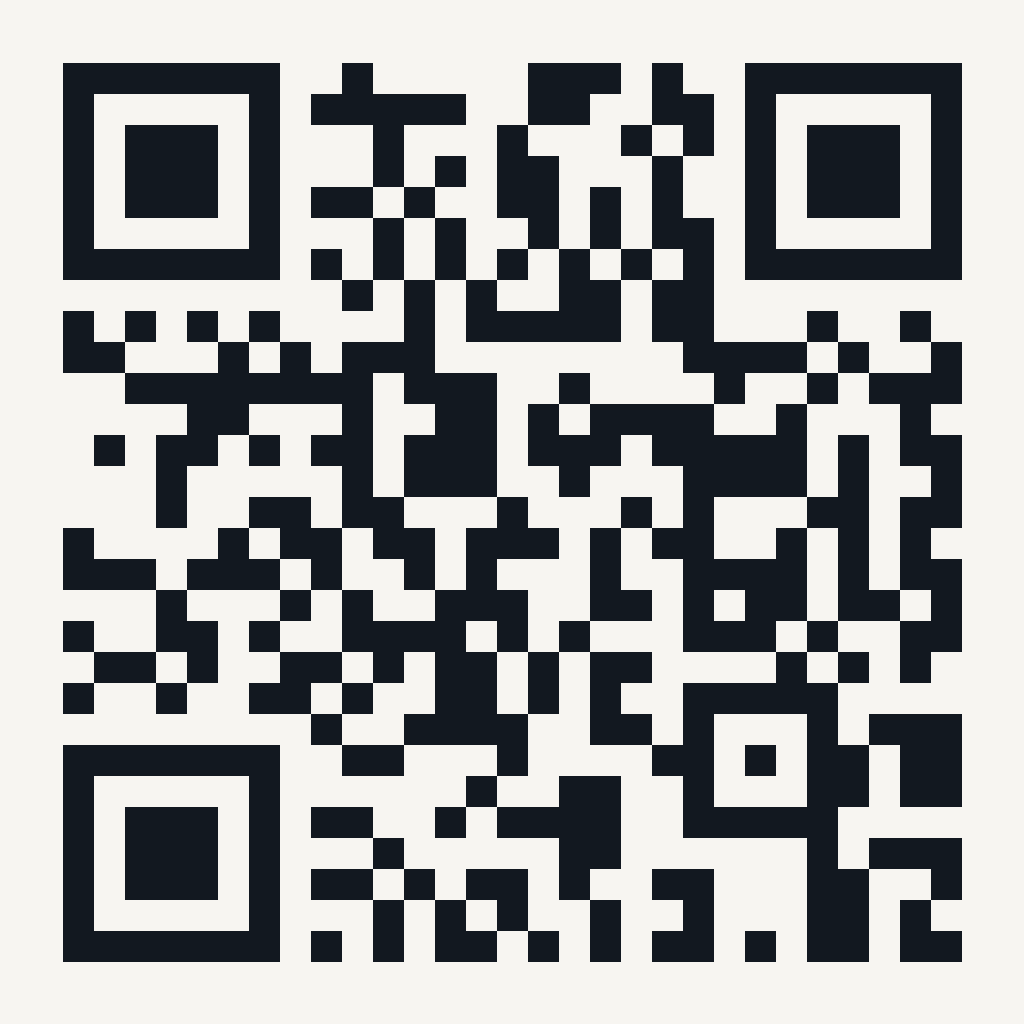
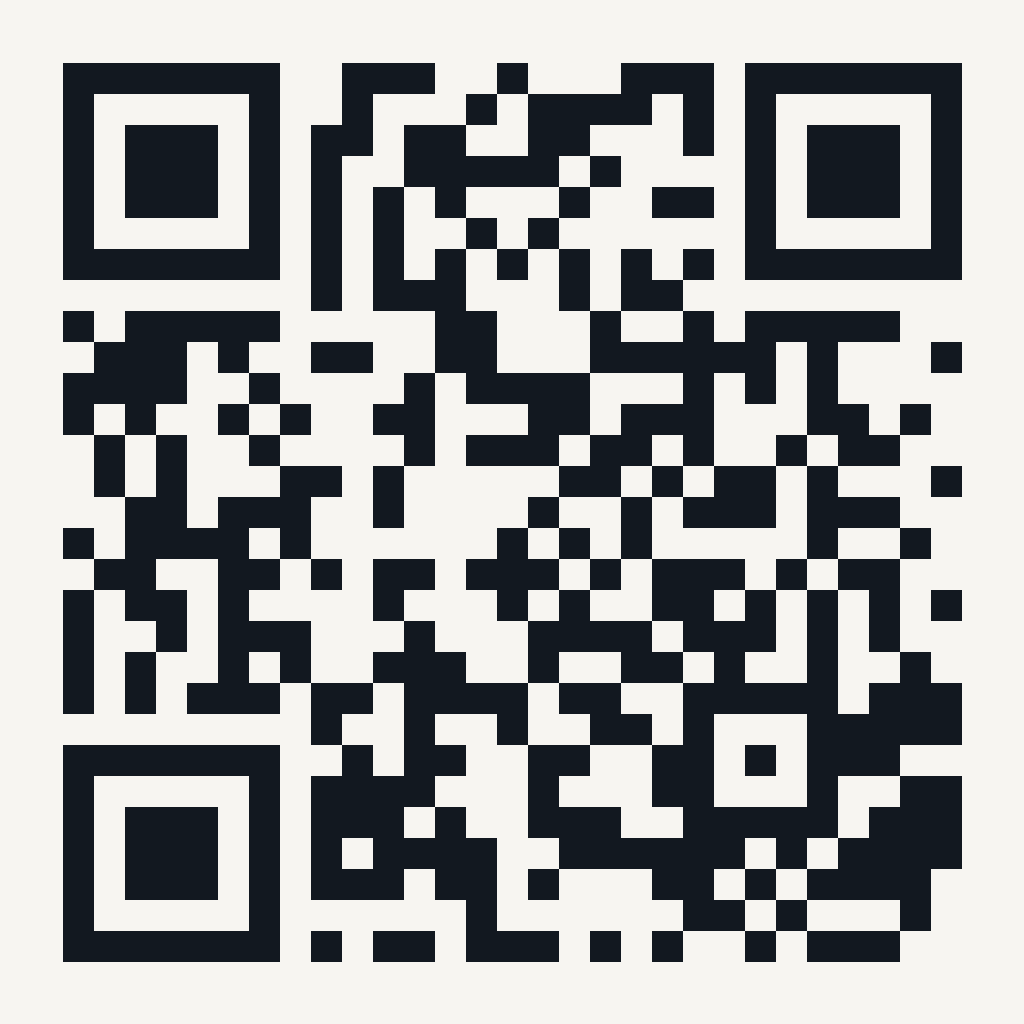
fix(demo): QR always encodes the visitor's own origin
Sandbox preview hosts rotate between sessions, so the baked-in preview URL
left a dead QR behind. /demo now re-encodes the QR with window.location.origin
at runtime (localhost/IP excluded) and the checked-in qr.png is refreshed for
the current preview host. Verified by decoding the rendered QR from a
headless-Chromium screenshot against a spoofed host.

Changed region(s): [[0.0625, 0.0625, 0.9375, 0.9375]]

diff --git a/components/demo-client.tsx b/components/demo-client.tsx
@@ -11,15 +11,14 @@ export function DemoClient({ demo }: { demo: DemoTarget }) {
   const [copied, setCopied] = useState(false);
   const [origin, setOrigin] = useState(demo.url);
 
-  // Prefer the URL the visitor is actually on (sandbox preview / custom domain).
+  // The QR must always encode the URL the visitor is actually looking at —
+  // sandbox previews rotate between sessions, so the baked-in value is only a
+  // fallback for non-browser contexts.
   useEffect(() => {
-    if (typeof window !== "undefined" && window.location.origin.includes(".")) {
-      const fromEnv = new URL(demo.url);
-      if (fromEnv.hostname.endsWith("vercel.app") && !window.location.hostname.endsWith("vercel.app")) {
-        setOrigin(window.location.origin);
-      }
-    }
-  }, [demo.url]);
+    const host = window.location.hostname;
+    const real = host.includes(".") && host !== "localhost" && !/^\d+\.\d+\.\d+\.\d+$/.test(host);
+    if (real) setOrigin(window.location.origin);
+  }, []);
 
   useEffect(() => {
     let cancelled = false;

diff --git a/lib/demo-config.ts b/lib/demo-config.ts
@@ -8,11 +8,15 @@
  * https://3000-<sandbox>.e2b.app while reviewing on a phone).
  */
 export const DEMO = {
-  /** Live preview (sandbox) baked in at build time; override per deploy. */
+  /**
+   * Fallback only — /demo re-encodes the QR with the visitor's own origin at
+   * runtime, so sandbox-preview rotation never leaves a dead QR behind.
+   * Set NEXT_PUBLIC_DEMO_URL to pin a public domain for a release build.
+   */
   url:
     process.env.NEXT_PUBLIC_DEMO_URL ??
     process.env.NEXT_PUBLIC_SITE_URL ??
-    "https://3000-iudurdmmaz8mhutdzo81h.e2b.app",
+    "https://pilot-library.vercel.app",
   /** Native shells that can be built from this repo */
   native: [
     {
